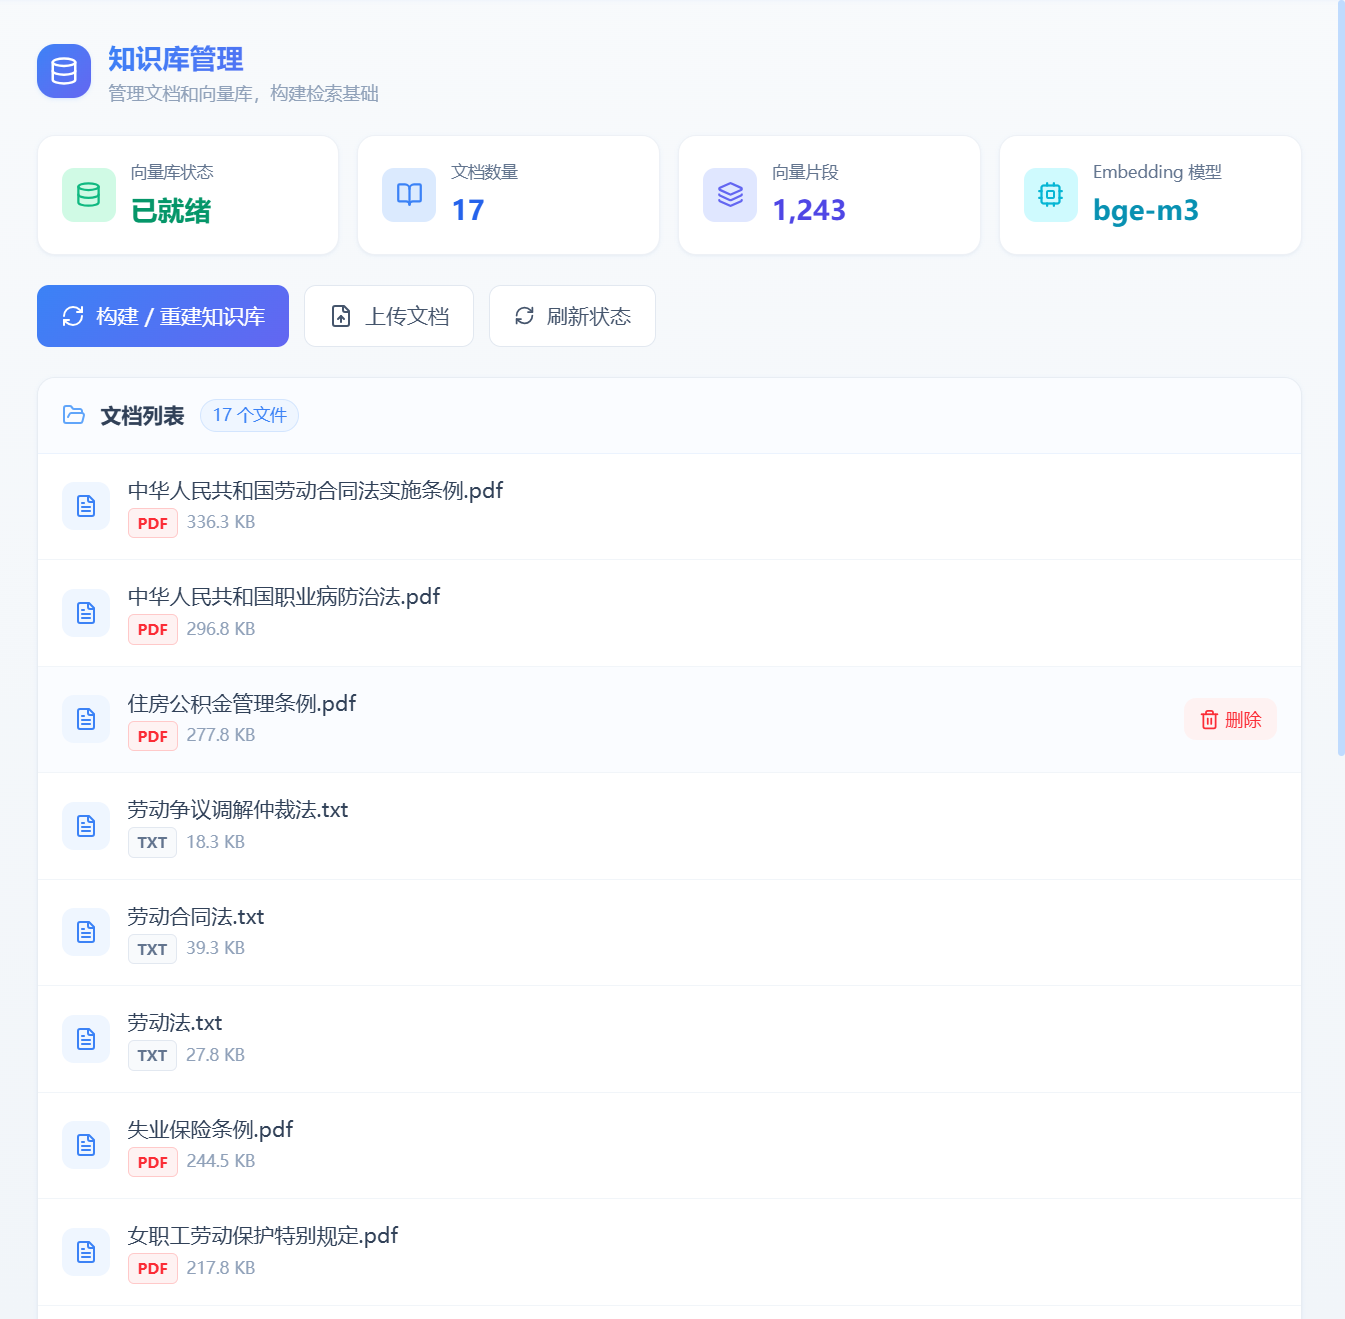
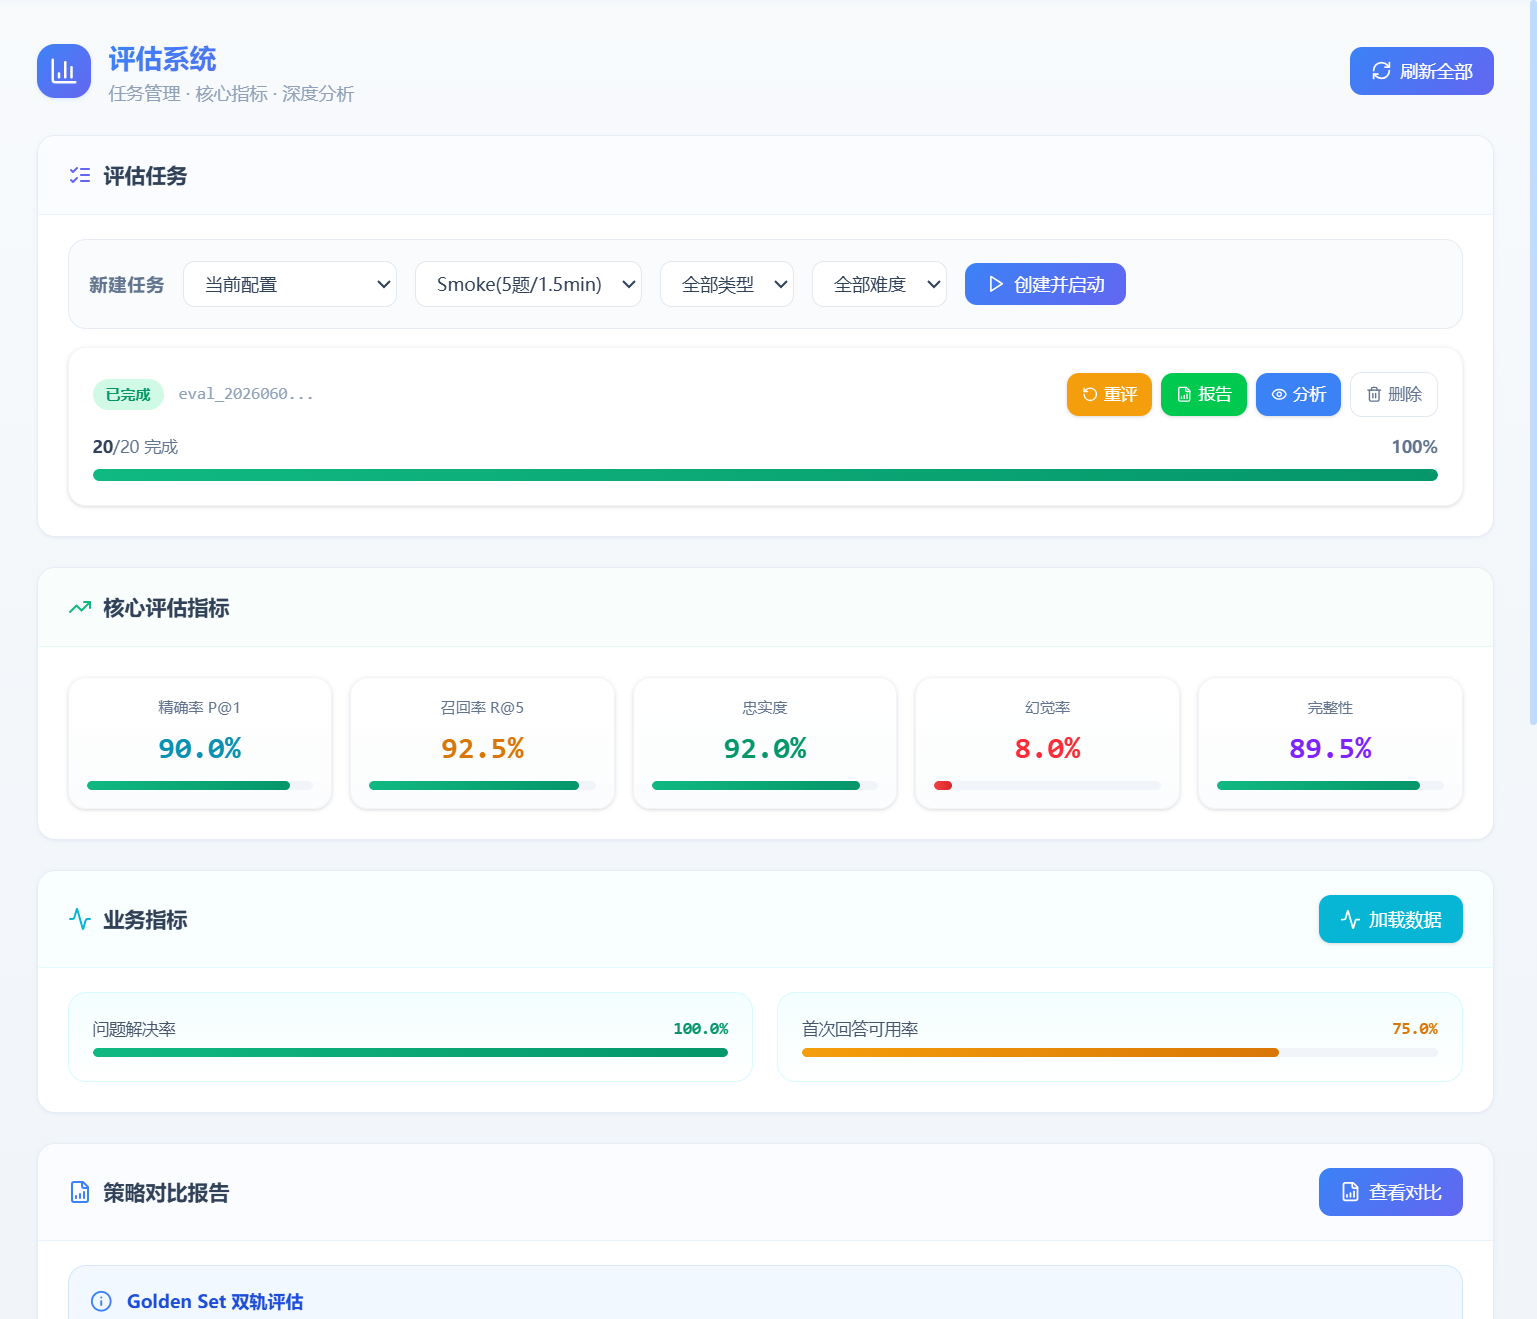
修复截图布局：单列大图 + 文件名校对
- 修正 eval/kb 文件交换（名称与内容对不上的问题）
- 截图从三列小图改为单列大图，每张独占一行

diff --git a/README.md b/README.md
@@ -7,10 +7,17 @@
 
 ## 📸 系统截图
 
-| 问答页 | 评估结果 | 知识库管理 |
-|:---:|:---:|:---:|
-| ![问答](docs/screenshots/chat.png) | ![评估](docs/screenshots/eval.png) | ![知识库](docs/screenshots/kb.png) |
-| *智能问答 + 来源追溯 + Agent 工作流可视化* | *20 题三元组评估指标汇总* | *17 部法律文档 + 1243 chunks* |
+### 💬 智能问答
+![问答](docs/screenshots/chat.png)
+*Agentic RAG 工作流：Router 意图分类 → 检索增强 → 生成回答 → Validator 验证，来源追溯 + CRAG 步骤可视化*
+
+### 📊 三元组评估
+![评估](docs/screenshots/eval.png)
+*20 题 Golden Set 评估：RAGAS 指标（忠实度 92%）+ 检索指标（P@1=90%, R@5=92.5%）+ 响应指标*
+
+### 📚 知识库管理
+![知识库](docs/screenshots/kb.png)
+*17 部劳动法文档、1243 个法条 chunk，支持上传、构建、法条结构化切分*
 
 ---
 
